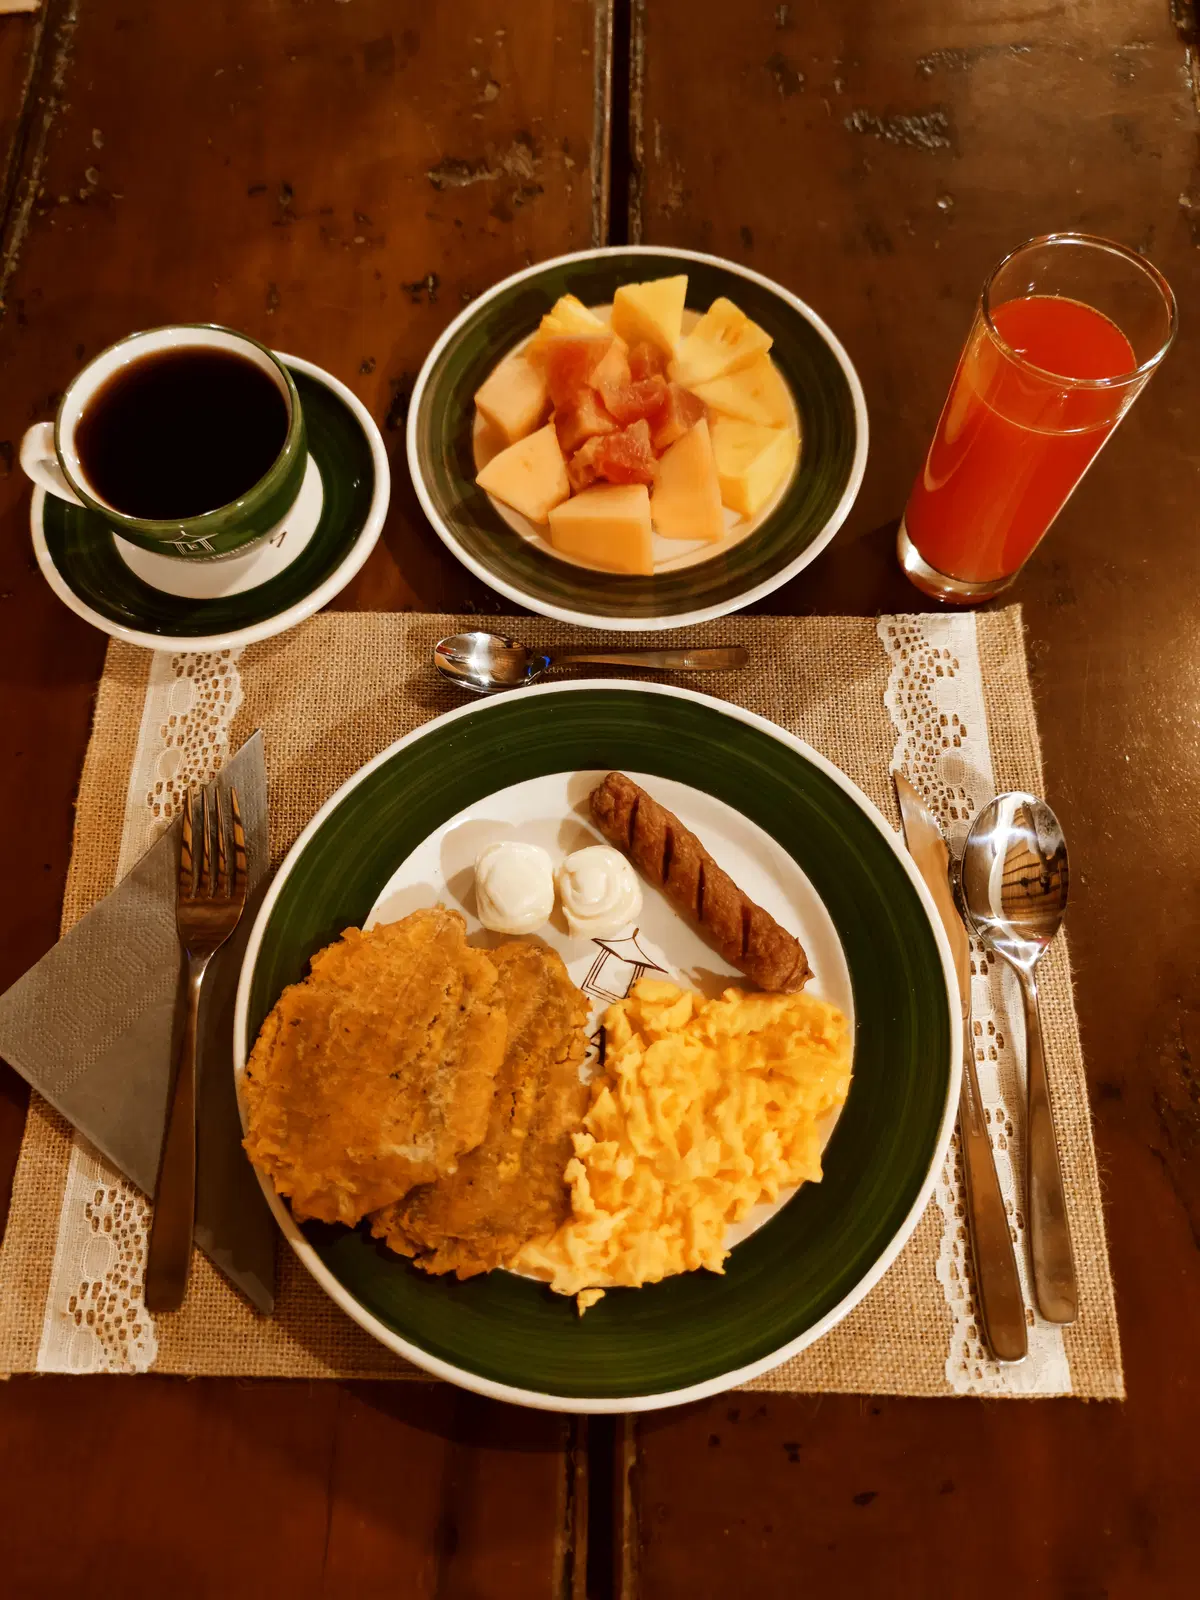
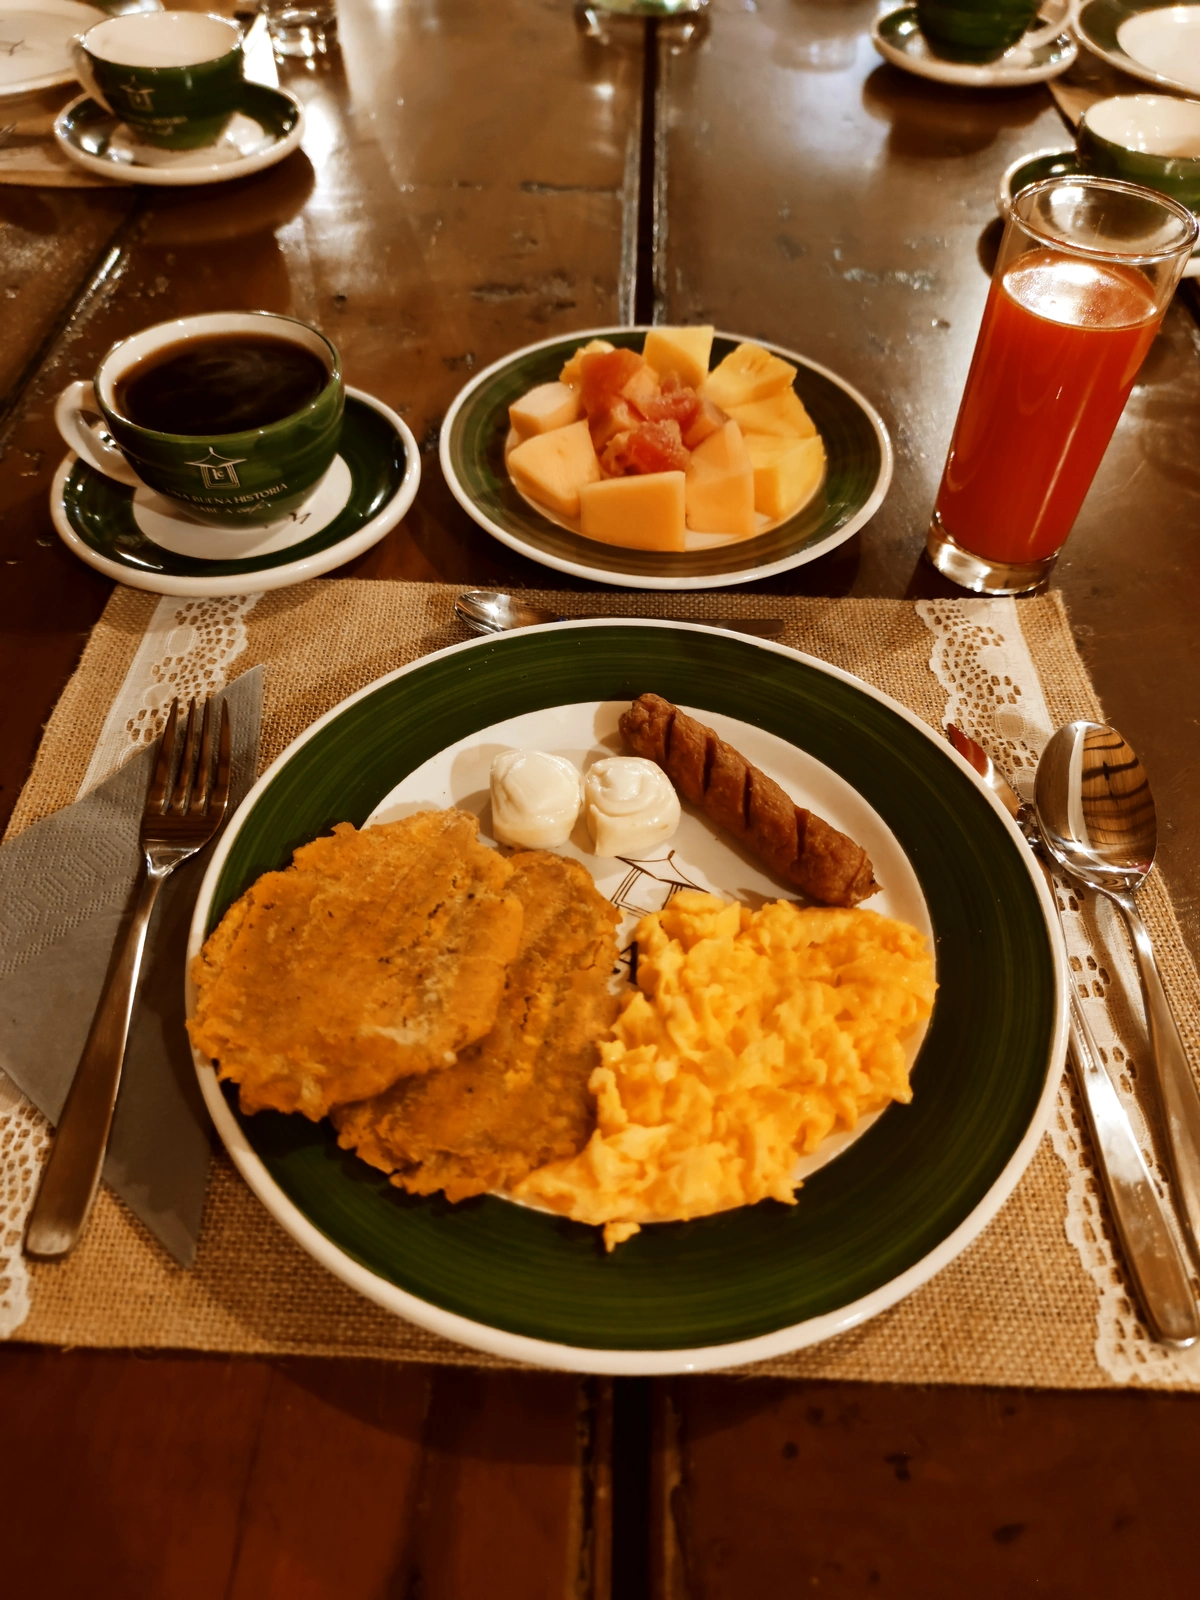
Breakfast image swap + itinerary button rounded + descriptions update
BREAKFAST IMAGES SWAPPED (both home page and /cafe page):
- Image 2 (central): breakfast-1.webp replaced with user's 'breakfast feature pic2.webp'
  (1200x1600 portrait). VLM: breakfast plate with scrambled eggs, fried plantains,
  sausage, cream, fresh fruit, coffee, orange juice.
  Description updated: now mentions 'salchicha' (sausage) and 'frutas frescas' (fresh fruit)
  to match the new image. Title stays 'El plato caribeño'.
- Image 3 (right): breakfast-3.webp replaced with user's 'breakfast feature pic.webp'
  (1200x900 landscape). VLM: spacious open-air dining area with long wooden table,
  brick columns, wooden beams, terracotta tiles, tropical plants.
  Description rewritten: 'El comedor colonial' / 'The dining room' — describes the
  dining room setting (long wooden table, brick arches, wooden beams, tropical plants)
  instead of the old 'set table' description.

ITINERARY BUTTON:
- border-radius changed from 2px to 20px (elegantly rounded pill shape)
- padding slightly wider (14px → 16px) for better proportions

Build: 55 pages, 0 errors.

diff --git a/src/styles/global.css b/src/styles/global.css
@@ -248,8 +248,8 @@ a { color: inherit; text-decoration: none; }
 .nav-itinerary-btn {
   background: linear-gradient(135deg, rgba(221,185,94,0.15), rgba(221,185,94,0.05));
   border: 1px solid rgba(221,185,94,0.4);
-  padding: 7px 14px !important;
-  border-radius: 2px;
+  padding: 7px 16px !important;
+  border-radius: 20px;
   color: var(--brass-light) !important;
   opacity: 1 !important;
   font-weight: 500;
